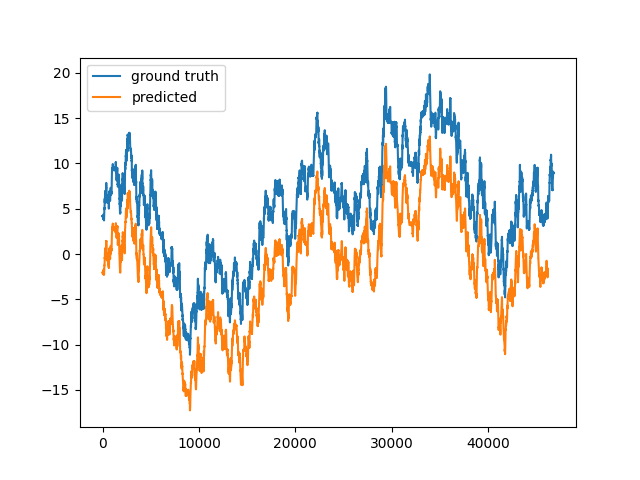
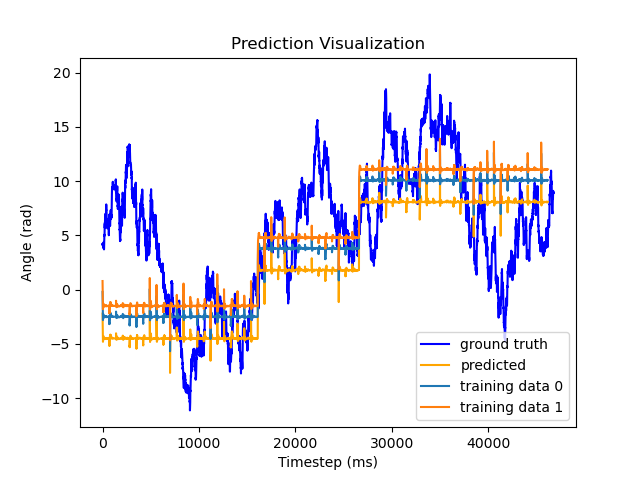
Still def some bugs with fakedata

diff --git a/src/train_fakedata.py b/src/train_fakedata.py
@@ -1,0 +1,97 @@
+import numpy as np
+import torch
+from torch import nn
+import matplotlib.pyplot as plt
+
+from AVDataGenerator import AVDataGenerator
+from DataPreprocessor import DataPreprocessor
+from ContinuousTimeRNN import ContinuousTimeRNN
+from SingleLayerCTRNN import SingleLayerCTRNN
+
+NUM_EPOCHS = 1
+TRAINING_BATCHES = 2
+
+def main():
+    device = torch.device('cuda' if torch.cuda.is_available() else 'cpu')
+
+    print("Processing training data...")
+    angs = np.load('angs_smooth.npy')
+    datagen = AVDataGenerator(T=angs.shape[1])
+    
+    initdirs = []
+    inputs = []
+    outputs = []
+    
+    for i in range(TRAINING_BATCHES):
+        dataProcessor = DataPreprocessor(datagen.GenerateAngs(), sample_length=700, normalize=False)
+        initdirs.append(torch.from_numpy(dataProcessor.GetInitialInput()).float())
+        inputs.append(torch.from_numpy(dataProcessor.GetTrainingInputs()).float())
+        outputs.append(torch.from_numpy(dataProcessor.GetTrainingOutputs()).float())
+        print("Outputs: ", outputs[i][0][0])
+
+    initdirs = torch.stack(initdirs).to(device)
+    inputs = torch.stack(inputs).to(device)
+    outputs = torch.stack(outputs).to(device)
+
+    print("Defining the model...")
+    model = SingleLayerCTRNN()
+    optimizer = torch.optim.Adam(model.parameters(), lr=.005, weight_decay=1e-6)
+    criterion = nn.MSELoss()
+    if torch.cuda.is_available():
+        model = model.cuda()
+        criterion = criterion.cuda()
+
+    print("Training...")
+    losses = []
+    for epoch in range(NUM_EPOCHS):
+        for batch in range(TRAINING_BATCHES):
+            optimizer.zero_grad()
+
+            pred = model(initdirs[batch], inputs[batch])
+            loss = criterion(pred, outputs[batch])
+
+            print (f'Epoch [{epoch+1}/{NUM_EPOCHS}] Batch [{batch+1}/{TRAINING_BATCHES}] Loss: {loss.item():.4f}' )
+            losses.append(loss.item())
+
+            loss.backward()
+            optimizer.step()
+    
+    print("Graphing the losses to loss_ctrnn.py...")
+    print(f"Losses: {losses}")
+    plt.plot(losses)
+    plt.xlabel('Iteration')
+    plt.ylabel('Loss')
+    plt.title('Training loss history')
+    plt.savefig('loss_ctrnn.png')
+    plt.clf()
+
+    print("Testing the model...")
+    testAngs = np.load('angs_smooth.npy')
+    TestCTRNN(testAngs, model, device, outputs)
+
+def TestCTRNN(angs, model, device, training_outputs):
+    dataProcessor = DataPreprocessor(angs, sample_length=700, normalize=True) 
+    initdir = torch.from_numpy(dataProcessor.GetInitialInput()).float().to(device)
+    input = torch.from_numpy(dataProcessor.GetTrainingInputs()).float().to(device)
+    # output = torch.from_numpy(dataProcessor.GetTrainingOutputs()).float().to(device)
+    
+    pred = model(initdir, input)
+    pred = np.transpose(pred.detach().cpu().numpy(), (2, 1, 0))
+    pred = np.reshape(pred, (pred.shape[0], -1))
+    radsOut = np.unwrap(np.arctan2(pred[0], pred[1]))
+
+    print("Graphing test performance to performance.png...")
+    plt.plot(angs[1], label='ground truth', color='blue')
+    plt.plot(radsOut, label='predicted', color='orange')
+    for i, output in enumerate(training_outputs):
+        out = np.transpose(output.detach().cpu().numpy(), (2, 1, 0))
+        out = np.reshape(pred, (pred.shape[0], -1))
+        plt.plot(np.unwrap(np.arctan2(out[0], out[1])) + (i+2), label=f'training data {i}')
+    plt.xlabel('Timestep (ms)')
+    plt.ylabel('Angle (rad)')
+    plt.title('Prediction Visualization')
+    plt.legend()
+    plt.savefig('performance.png')
+
+if __name__ == '__main__':
+    main()

diff --git a/src/train.py b/src/train.py
@@ -9,20 +9,15 @@ from ContinuousTimeRNN import ContinuousTimeRNN
 from SingleLayerCTRNN import SingleLayerCTRNN
 
 NUM_EPOCHS = 100
-USE_FAKE_DATA = False
 
 def main():
     device = torch.device('cuda' if torch.cuda.is_available() else 'cpu')
 
     # Get the data 
-    if USE_FAKE_DATA:
-        datagen = AVDataGenerator(T=40000)
-        angs = datagen.GenerateAngs()
-    else:
-        angs = np.load('angs_smooth.npy')
+    angs = np.load('angs_smooth.npy')
 
     # Preprocess the data
-    dataProcessor = DataPreprocessor(angs, sample_length=700, normalize=not USE_FAKE_DATA)
+    dataProcessor = DataPreprocessor(angs, sample_length=700, normalize=True)
     initdir = torch.from_numpy(dataProcessor.GetInitialInput()).float().to(device)
     input = torch.from_numpy(dataProcessor.GetTrainingInputs()).float().to(device)
     output = torch.from_numpy(dataProcessor.GetTrainingOutputs()).float().to(device)
@@ -63,8 +58,7 @@ def main():
     TestCTRNN(testAngs, model, device)
 
 def TestCTRNN(angs, model, device):
-    # TODO: Should this always be normalized=True? Or keep consistent with whether training was normalized?
-    dataProcessor = DataPreprocessor(angs, sample_length=700, normalize=not USE_FAKE_DATA) 
+    dataProcessor = DataPreprocessor(angs, sample_length=700, normalize=True) 
     initdir = torch.from_numpy(dataProcessor.GetInitialInput()).float().to(device)
     input = torch.from_numpy(dataProcessor.GetTrainingInputs()).float().to(device)
     # output = torch.from_numpy(dataProcessor.GetTrainingOutputs()).float().to(device)

diff --git a/src/AVDataGenerator.py b/src/AVDataGenerator.py
@@ -1,4 +1,5 @@
 import numpy as np
+import time
 
 class AVDataGenerator():
     def __init__(self, T=10000, dt=25, sigma=0.03, momentum=0.8):
@@ -21,6 +22,9 @@ class AVDataGenerator():
         First row is time in milliseconds
         Second row is head direction in radians
         """
+        seed = int(time.time_ns()) % (2**32)
+        np.random.seed(seed)
+
         initTime = 0
         initRad = np.random.uniform(-3, 3)
         initVel = np.random.uniform(-0.5, 0.5)
